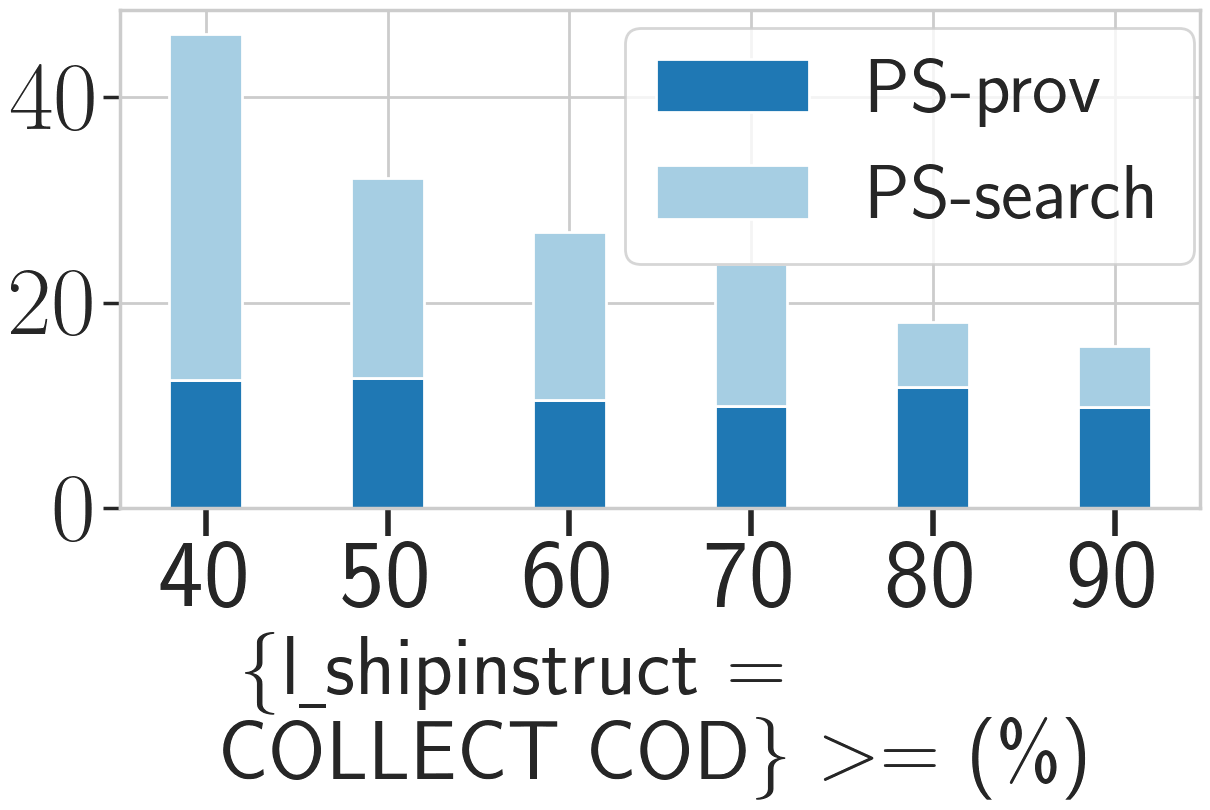
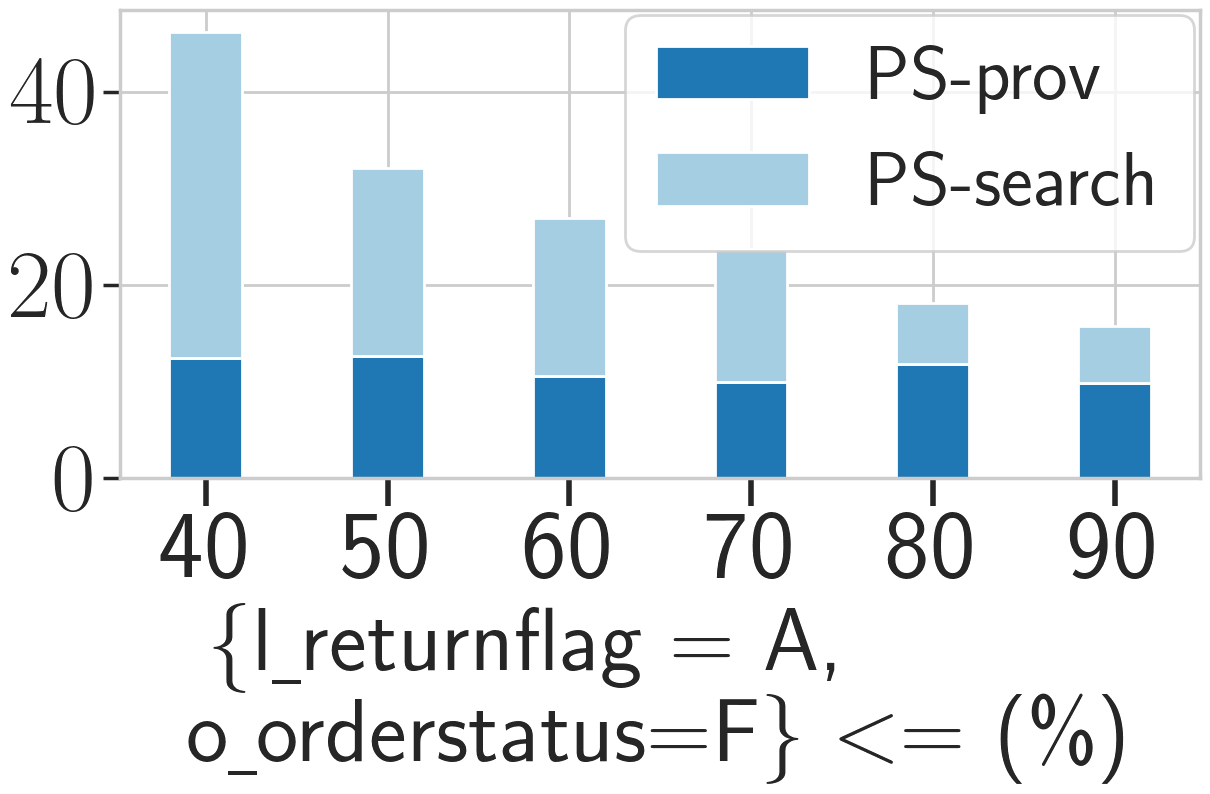
fix fig

diff --git a/Experiment/TPCH/1G/constraint_change/q12_contract/fig.py b/Experiment/TPCH/1G/constraint_change/q12_contract/fig.py
@@ -85,8 +85,8 @@ def run(query, size, constraint):
     plt.xticks(np.arange(0, 6), x_list, rotation=0, fontsize=70)
     plt.yticks(fontsize=70, weight='bold')
 
-    plt.xlabel(r'\{l\underline{ }shipinstruct = \\COLLECT COD\} $>=$ (\%)', fontsize=60)
-    plt.legend(loc='upper right', bbox_to_anchor=(1.03, 1.04), fontsize=55)
+    plt.xlabel(r'\{l\underline{ }returnflag = A, \\o\underline{ }orderstatus=F\} $<=$ (\%)', fontsize=65)
+    plt.legend(loc='upper right', bbox_to_anchor=(1.03, 1.07), fontsize=55)
     # plt.legend(loc="best", fontsize=50)
     plt.tight_layout()
     fig_path = "constraint_change_q" + str(query) + "_" + size + "_" + constraint + ".png"
